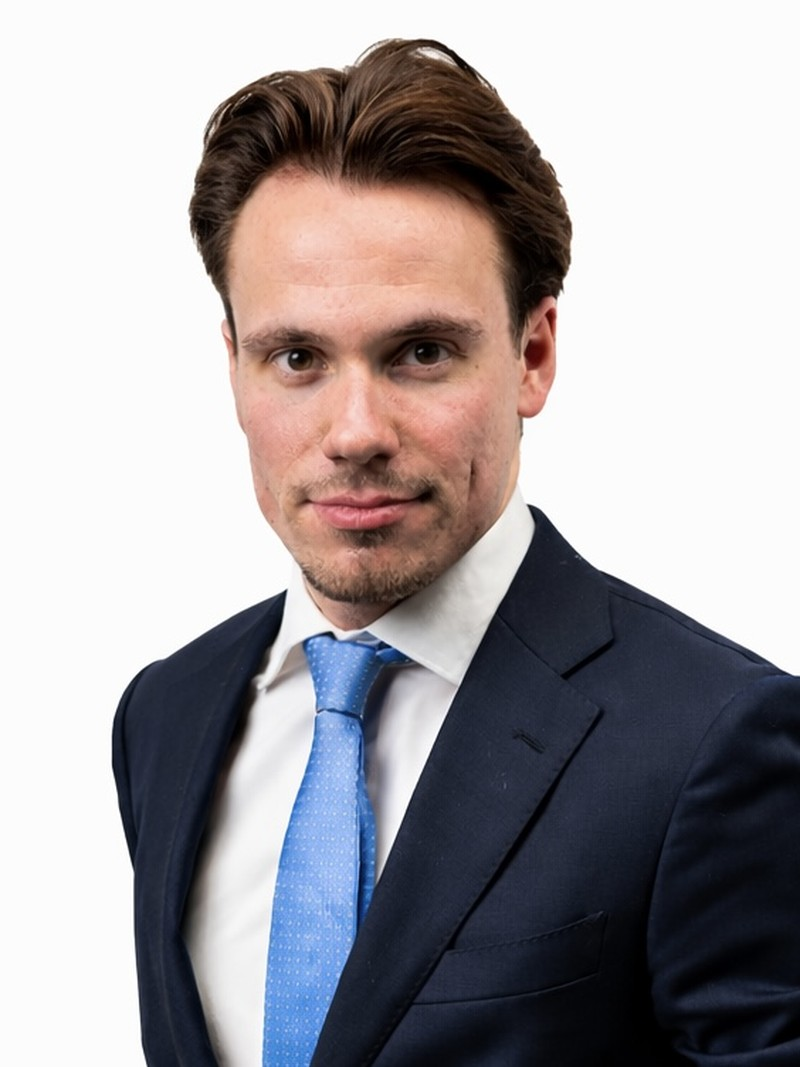
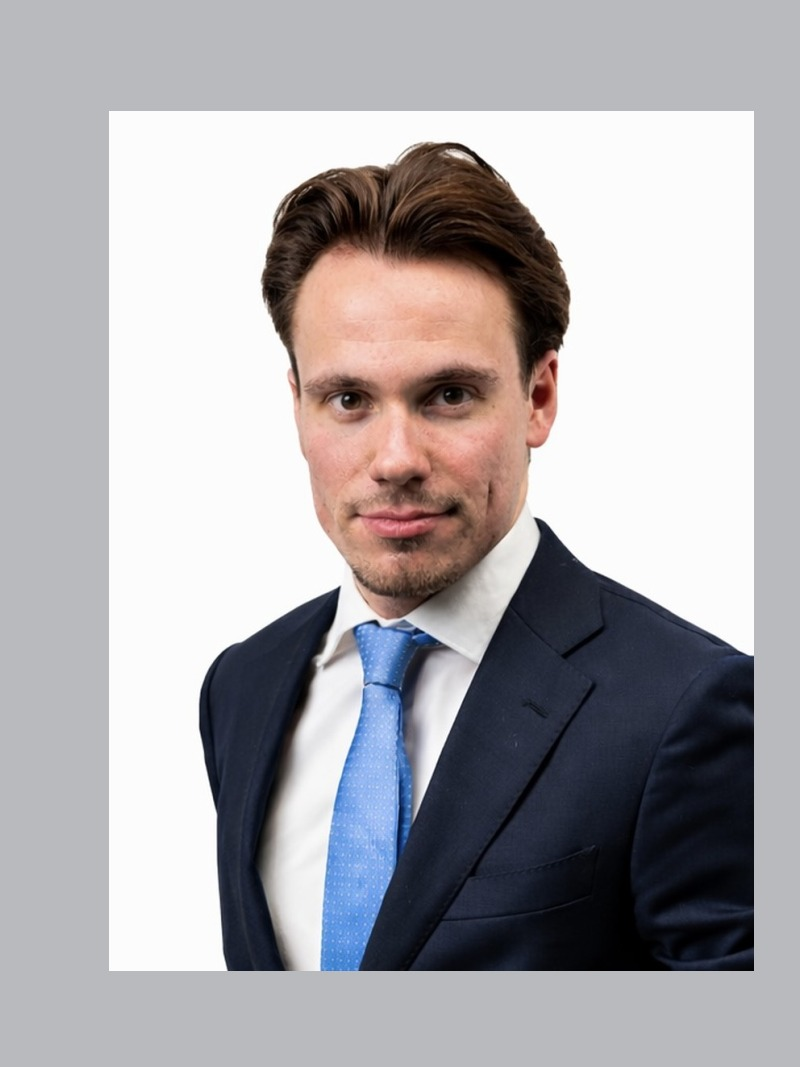
Normalize team headshots with face detection for consistent framing
Re-processed all 25 team photos so each face sits at the same position
and size within the 800x1067 frame (top of head ~12% from top, face
~30% of frame height). Removed now-obsolete photoPosition overrides
from team.js and reverted card aspect ratio from 3/3.6 back to 3/4.

diff --git a/src/data/team.js b/src/data/team.js
@@ -22,7 +22,6 @@ export const founders = [
     name: "Noah Junger",
     role: "Co-Founder",
     photo: "/team/noah-junger.jpg",
-    photoPosition: "center 35%",
     linkedin: "https://www.linkedin.com/in/noah-junger-b53b1620a",
     email: null,
     bio: "Noah is a Co-Founder and former President at AIS. During his time at the society, he gained experience at EQT Group, where he worked in the Real Estate Acquisitions team in London. He will be joining Blackstone as a Real Estate Private Equity Intern this summer. Noah is a German national who speaks German and English.",
@@ -59,7 +58,6 @@ export const founders = [
     name: "David Nenning",
     role: "Co-Founder & Head of Venture Capital",
     photo: "/team/david-nenning.jpg",
-    photoPosition: "center 30%",
     linkedin: "https://www.linkedin.com/in/david-nenning-7241b8277/",
     email: null,
     bio: "David is a Co-Founder and Head of Venture Capital at AIS. During his time at the society, he gained experience at Stern & Stewart, where he worked in the strategy team in Munich. He will be joining Helsing, a leading European defense technology startup, as a Product Intern this summer. David is a German national who speaks English and German.",
@@ -76,7 +74,6 @@ export const divisions = {
         name: "Philipp Roselieb",
         role: "Head of Private Equity",
         photo: "/team/philipp-roselieb.jpeg",
-        photoPosition: "center 65%",
         linkedin: "https://www.linkedin.com/in/philipp-r-6824b922b",
         email: null,
         bio: "Philipp is Head of Private Equity at AIS. During his time at the society, he gained experience at KPMG, where he worked in the M&A team in Munich. He will be joining UBS as an M&A Analyst Intern this summer. Philipp is a German national who speaks German and English.",
@@ -86,7 +83,6 @@ export const divisions = {
         name: "Joschka Feuerstein",
         role: "Analyst",
         photo: "/team/joschka-feuerstein.jpg",
-        photoPosition: "center 20%",
         linkedin: "https://www.linkedin.com/in/joschka-feuerstein-68796b238/",
         email: null,
         bio: "Joschka is a Private Equity Analyst at AIS. During his time at the society, he gained experience at EY-Parthenon, where he worked in the Strategy and Transactions team in Germany. He will be joining Bain & Company as an Associate Consultant Intern this summer. Joschka is a German national who speaks German and English.",
@@ -96,7 +92,6 @@ export const divisions = {
         name: "Pia-Marie Kraus",
         role: "Analyst",
         photo: "/team/pia-marie-kraus.jpeg",
-        photoPosition: "center 60%",
         linkedin: "https://www.linkedin.com/in/pia-marie-kraus",
         email: null,
         bio: "Pia-Marie is a Private Equity Analyst at AIS. Prior to joining the society, she completed an internship at the law practice Ashurst in Frankfurt. She has since participated in the Spring Week Program at Deutsche Bank in Frankfurt. Pia-Marie is a German national who speaks German, English, French, and Spanish.",
@@ -115,7 +110,6 @@ export const divisions = {
         name: "Eloah Brummund",
         role: "Analyst",
         photo: "/team/eloah-brummund.jpg",
-        photoPosition: "center 30%",
         linkedin: "https://www.linkedin.com/in/eloah-b-130766220",
         email: null,
         bio: "Eloah is a Private Equity Analyst at AIS. Prior to his time at the society, he gained experience at DBAG and at Ardian, where he worked in the Buyout team in Frankfurt. He is currently a Visiting Analyst at CMAR Ventures. Eloah is a German national who speaks German, English, and French.",
@@ -130,7 +124,6 @@ export const divisions = {
         name: "David Nenning",
         role: "Head of Venture Capital",
         photo: "/team/david-nenning.jpg",
-        photoPosition: "center 30%",
         linkedin: "https://www.linkedin.com/in/david-nenning-7241b8277/",
         email: null,
         bio: "David is a Co-Founder and Head of Venture Capital at AIS. During his time at the society, he gained experience at Stern & Stewart, where he worked in the strategy team in Munich. He will be joining Helsing, a leading European defense technology startup, as a Product Intern this summer. David is a German national who speaks English and German.",
@@ -140,7 +133,6 @@ export const divisions = {
         name: "Max Söderman",
         role: "Analyst",
         photo: "/team/max-soderman.png",
-        photoPosition: "center 85%",
         linkedin: "https://www.linkedin.com/in/maxsoederman",
         email: null,
         bio: "Max is a Venture Capital Analyst at AIS. Prior to joining the society, he gained experience at Wall Street Oasis, where he worked in the Financial Research team. He will be joining Kapital Förmedling as a Debt Advisory Intern this summer. Max is a Swedish national who speaks Swedish and English.",
@@ -150,7 +142,6 @@ export const divisions = {
         name: "Richard Križan",
         role: "Analyst",
         photo: "/team/richard-krizan.jpeg",
-        photoPosition: "center 75%",
         linkedin: "https://www.linkedin.com/in/richard-kri%C5%BEan-3aa53a252",
         email: null,
         bio: "Richard is a Venture Capital Analyst at AIS. Prior to his time at the society, he gained experience at PurposeTech Capital, where he worked in the Investment team. He will be joining Inven Capital as a Venture Capital Analyst Intern this summer. Richard is a Slovak national who speaks English, Slovak, and Czech.",
@@ -160,7 +151,6 @@ export const divisions = {
         name: "Florian Trepetschnigg",
         role: "Analyst",
         photo: "/team/florian-trepetschnigg.jpeg",
-        photoPosition: "center 25%",
         linkedin: "https://www.linkedin.com/in/florian-trepetschnigg/",
         email: null,
         bio: "Florian is a Venture Capital Analyst at AIS. Prior to joining the society, he co-founded Hoodit, a B2B SaaS platform for merchandise. He has since gained experience in VC at Elevator Ventures and in Private Credit at Allianz Global Investors. He will be joining Plato, an early-stage growth platform for distributors, this summer. Florian is an Austrian national who speaks German and English.",
@@ -188,7 +178,6 @@ export const divisions = {
         name: "Antonio Trenn",
         role: "Analyst",
         photo: "/team/antonio-trenn.jpg",
-        photoPosition: "center 40%",
         linkedin: "https://www.linkedin.com/in/antonio-trenn-b349b9299/",
         email: null,
         bio: "Antonio is a Venture Capital Analyst at AIS. During his time at the society, he gained experience at Fortlane Partners, where he worked in the Private Equity Consulting team. He will be joining Noteus Partners as a Growth Equity Intern this summer. Antonio is a German national who speaks German and English.",
@@ -221,7 +210,6 @@ export const divisions = {
         name: "David Kindt",
         role: "Analyst",
         photo: "/team/david-kindt.jpeg",
-        photoPosition: "center 65%",
         linkedin: "https://www.linkedin.com/in/d-kindt/",
         email: null,
         bio: "David is a Hedge Fund Analyst at AIS. Prior to joining the society, he founded BLK, an online shop for vintage clothing. He will be joining the Ventures team at Axel Springer this summer. David is a German national who speaks German and English.",
@@ -245,7 +233,6 @@ export const divisions = {
         name: "Gustav Graner",
         role: "Head of Real Estate",
         photo: "/team/gustav-graner.jpeg",
-        photoPosition: "center 65%",
         linkedin: "https://www.linkedin.com/in/gustavgraner",
         email: null,
         bio: "Gustav is Head of Real Estate at AIS. During his time at the society, he gained experience at Sagax AB, where he worked in the Real Estate Investment team in Paris. He will be joining EQT as a Real Estate Private Equity Intern this summer. Gustav is a Swedish national who speaks English, Swedish, and French.",
@@ -255,7 +242,6 @@ export const divisions = {
         name: "Samuel Barta",
         role: "Analyst",
         photo: "/team/samuel-barta.jpg",
-        photoPosition: "center 80%",
         linkedin: "https://www.linkedin.com/in/samuel-barta-43b807339",
         email: null,
         bio: "Samuel is a Real Estate Analyst at AIS. During his time at the society, he participated in the Spring Week Program at Blackstone and will be joining Minor Hotels as a Finance Intern this summer. Samuel is an Australian and Slovak national who speaks English, Czech, and Slovak.",
@@ -265,7 +251,6 @@ export const divisions = {
         name: "Solene Robinson",
         role: "Analyst",
         photo: "/team/solene-robinson.jpeg",
-        photoPosition: "center 70%",
         linkedin: "https://www.linkedin.com/in/solene-robinson",
         email: null,
         bio: "Solene is a Real Estate Analyst at AIS. Prior to her time at the society, she gained experience as an intern at HEC Business School, where she worked on the summer programs. She will continue as a scholar with Girls Who Invest this summer. Solene is an American national who speaks English and French.",
@@ -289,7 +274,6 @@ export const divisions = {
         name: "Theodor Kisslinger",
         role: "Head of Events",
         photo: "/team/theodor-kisslinger.jpeg",
-        photoPosition: "center 90%",
         linkedin: "https://www.linkedin.com/in/theodor-kisslinger",
         email: "theodor.kisslinger@edu.escp.eu",
         bio: "Theodor is Head of Events at AIS. Prior to his time at the society, he gained experience at UBS and Macquarie, where he worked in M&A in Frankfurt. He will be joining Altor Equity Partners and Ardian Secondaries as a Private Equity Intern this fall. Theodor is a German national who speaks German and English.",
@@ -304,7 +288,6 @@ export const divisions = {
         name: "Elisa Alessandri",
         role: "Co-Lead",
         photo: "/team/elisa-alessandri.jpg",
-        photoPosition: "center 80%",
         linkedin: "https://www.linkedin.com/in/elisaalessandri7",
         email: null,
         bio: "Elisa Co-leads the Marketing Team at AIS. Prior to joining the society, she gained experience at an accounting firm. She will be joining DLVentures as a Venture Capital Analyst Intern this summer. Elisa is an Italian national who speaks Italian, English, French, and Spanish.",

diff --git a/src/components/about/TeamMemberCard.jsx b/src/components/about/TeamMemberCard.jsx
@@ -28,8 +28,7 @@ export default function TeamMemberCard({ member }) {
         <img
           src={member.photo}
           alt={member.name}
-          className="w-full aspect-[3/3.6] object-cover grayscale"
-          style={member.photoPosition ? { objectPosition: member.photoPosition } : undefined}
+          className="w-full aspect-[3/4] object-cover grayscale"
           loading="lazy"
         />
       </div>
